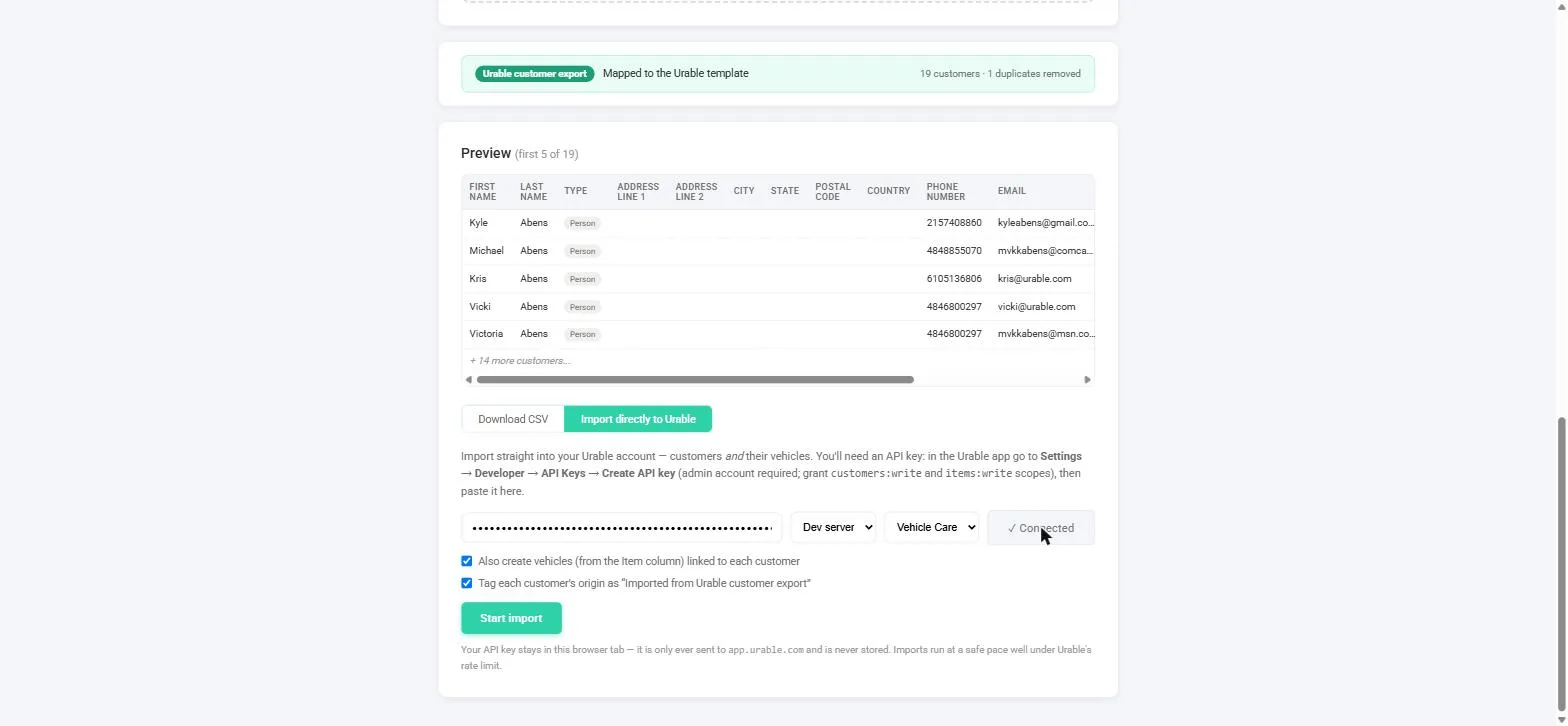
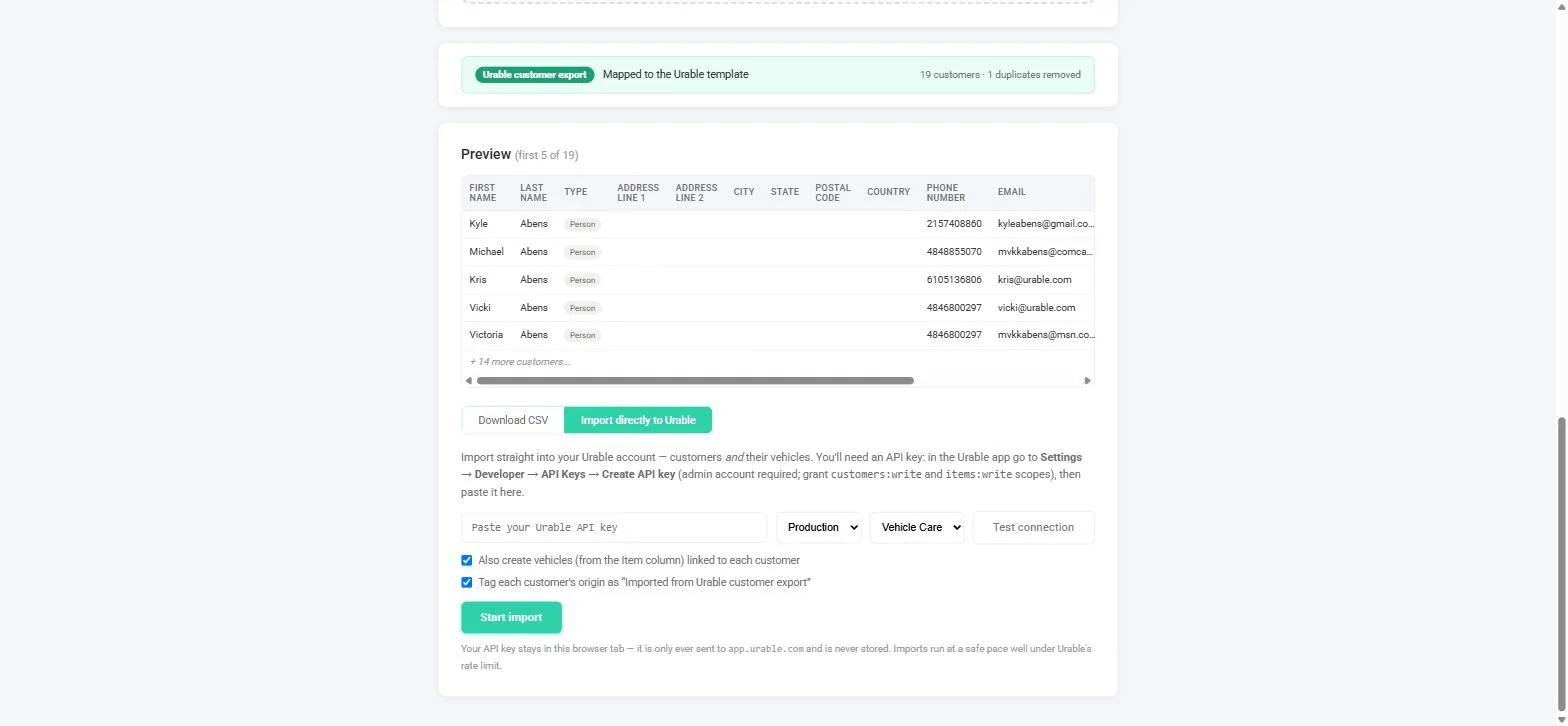
Walkthrough copy edits; Production shown in Part C frames

diff --git a/walkthrough/index.html b/walkthrough/index.html
@@ -241,13 +241,13 @@ const steps=[
   hs:[50,46.4],
   note:"Everything is processed inside your own browser. Customer files are never uploaded to a server. The one exception is the direct API import, which writes into the shop's Urable account \u2014 which is what you asked it to do."},
  {img:"step-02.webp",part:"A",title:"Check what it detected",
-  body:"Drop the file and the tool names the format it recognised \u2014 here <b>Mobile Tech RX</b>. The right-hand count is what matters: how many customers came through, and how many duplicates it merged. If that number looks wildly wrong, stop and look at the file before going further.",
+  body:"Drop the file and the tool automatically determines the source \u2014 here <b>Mobile Tech RX</b>. The right-hand count is what matters: how many customers came through, and how many duplicates it merged. If that number looks wildly wrong, stop and look at the file before going further.",
   hs:[71.4,33.1]},
  {img:"step-03.webp",part:"A",title:"Read the preview",
-  body:"The first five rows, mapped into the Urable template. Spot-check them: names in the right fields, phone numbers intact, addresses where you expect. Two people on one phone number stay two customers \u2014 households share a home phone, so the tool only merges when the names match too.",
+  body:"The first five rows, mapped into the Urable template. Spot-check them: names in the right fields, phone numbers intact, addresses where you expect. The customer list is de-duplicated automatically.",
   hs:[50,51]},
- {img:"step-04.webp",part:"A",title:"Download the CSV",
-  body:"Click <b>Download Urable-ready CSV</b> and send it to the onboarding specialist, or upload it yourself if CSV import is enabled on the account. This is the normal path and the safest one, because a human sees the file before anything is written.",
+ {img:"step-04.webp",part:"A",title:"Analytics import method",
+  body:"Click <b>Download Urable-ready CSV</b>, then upload it through the standard import in Analytics. This is the normal path and the safest one, because a human sees the file before anything is written.",
   hs:[33,88.4],
   note:"The file comes out at exactly 13 columns with no blank rows \u2014 nothing past the Item column. That's deliberate: the Urable importer rejects files with stray columns hanging off the end."},
  {img:"step-05.webp",part:"B",title:"When the format isn't recognised",
@@ -260,36 +260,35 @@ const steps=[
   body:"Leave <b>Add all unmapped columns to Notes</b> ticked. Anything you didn't map lands in the customer's Notes instead of being thrown away \u2014 lead source, tags, account numbers. Then click <b>Apply mapping</b>.",
   hs:[25.7,82.1],
   note:"Not confident about a mapping? Send the file to Claire instead of guessing. She has a Claude skill that cleans messy lists into the Urable template, and the cleaned file drops straight back into this tool."},
- {img:"step-08.webp",part:"B",title:"Same preview, same download",
-  body:"After Apply you're back on the standard preview and the flow is identical to Part A \u2014 check the rows, then download the CSV or switch to the direct import.",
+ {img:"step-08.webp",part:"B",title:"Review the preview",
+  body:"You're back on the standard preview and the flow is identical to Part A \u2014 check the rows, then download the CSV or switch to the direct import.",
   hs:[50,51]},
- {img:"step-09a.webp",part:"C",title:"Find the API keys",
-  body:"The direct import needs an API key from the <b>customer's</b> Urable account, not yours. In their account go to <b>Settings</b>, scroll to the <b>Developer</b> section, and click <b>+ CREATE API KEY</b>. This needs an admin login.",
+ {img:"step-09a.webp",part:"C",title:"Create the API key",
+  body:"Connect to their account. In their account go to <b>Settings</b>, scroll to the <b>Developer</b> section, and click <b>+ CREATE API KEY</b>.",
   hs:[75.1,64.9],
-  note:"Existing keys are listed here with their scopes. If a shop already has a key you can't read it \u2014 keys are only ever shown once \u2014 so just create a new one."},
+  note:"Don't revoke any keys the customer created themselves \u2014 only ever add a new one."},
  {img:"step-09b.webp",part:"C",title:"Name it",
   body:"Call it <b>Urable Import</b>. The name is only a label, but a clear one means the shop knows what it's for later and can revoke it safely once the migration is done.",
   hs:[49.6,34.8]},
- {img:"step-09c.webp",part:"C",title:"Tick every scope",
-  body:"Select <b>all</b> of the scopes listed. The importer touches customers, items, products, jobs, payments and more, and a key missing even one scope fails partway through the import rather than up front. There's no downside to granting them all on a key you revoke afterwards.",
-  hs:[36.2,55.4],
-  note:"Scroll the whole list \u2014 the scopes continue past the bottom of the panel. All sixteen should be checked before you save."},
- {img:"step-09d.webp",part:"C",title:"Copy it now",
-  body:"The key is shown <b>once</b>. Copy it with the icon on the right and paste it straight into the import tool before you click Done. Once this dialog closes there is no way to see it again.",
+ {img:"step-09c.webp",part:"C",title:"Check off all the boxes",
+  body:"Select <b>every</b> scope in the list, then click the green check mark to save.",
+  hs:[36.2,55.4]},
+ {img:"step-09d.webp",part:"C",title:"Copy it, then paste it in",
+  body:"Copy the key, click <b>Done</b>, and paste it into the import tool. There is no way to see it again once you exit this dialog.",
   hs:[62.6,53.2],
-  note:"Lost it? No problem \u2014 you can't recover a key, but you can create another one in seconds. Revoke the old one so it doesn't linger."},
+  note:"Lost it? You can't recover a key, but you can create another in seconds."},
   {img:"step-09.webp",part:"C",title:"Paste it into the tool",
-  body:"Back in the import tool, switch to the <b>Import directly to Urable</b> tab and paste the key. Set the server to match the account the key came from \u2014 <b>Production</b> for a live shop. Then set the industry to match.",
+  body:"Back in the import tool, switch to the <b>Import directly to Urable</b> tab and paste the key. Make sure the server says <b>Production</b> \u2014 it's the default, so it should already be set. Then pick the industry that matches the shop.",
   hs:[37.3,66.9],
-  note:"The key is used for that import only and is never stored. It stays in the browser tab. The screenshots in this part were captured against a dev account, so they show Dev server."},
+  note:"The key is used for that import only and is never stored. It stays in the browser tab."},
    {img:"step-c1.webp",part:"C",title:"Test the connection first",
-  body:"Click <b>Test connection</b> before anything else. <b>\u2713 Connected</b> means the key and the server match and the import can write. Anything else, stop here \u2014 a bad key wastes the whole run.",
+  body:"Check <b>Production</b> is selected, then click <b>Test connection</b>. You want <b>\u2713 Connected</b> before going any further \u2014 anything else and you stop here, because a bad key wastes the whole run.",
   hs:[66.3,72.7],
-  note:"The result only shows on the button for a few seconds. If you miss it, click again. \"Error 400\" means the key is wrong \u2014 the API reports a bad token as 400, not 401."},
+  note:"The result only shows on the button for a few seconds. If you miss it, click again. \"Error 400\" means the key is wrong."},
  {img:"step-c2.webp",part:"C",title:"Start it and read the result",
-  body:"Tick your options, then <b>Start import</b> and confirm the count when the browser asks. When it finishes you get a plain summary \u2014 here <b>19 customers created, 20 vehicles added</b>. Open the Urable account and spot-check a few before telling the shop it's done.",
+  body:"Check both boxes below the API key field, then <b>Start import</b> and confirm the count when the browser asks. When it finishes you get a plain summary \u2014 here <b>19 customers created, 20 vehicles added</b>. Open the Urable account and spot-check a few before telling the shop it's done.",
   hs:[49.6,84.2],
-  note:"Heads up: the customers import creates every row it is given \u2014 it does not match against people already in the account. Run it once. If you need a second pass, check what is already there first."},
+  note:"The de-duplication happens only within the file you're importing \u2014 it does not check against customers already in their Urable account."},
  {img:"step-11.webp",part:"D",title:"Products & services",
   body:"Same flow in the second box. Tiered menus come through grouped \u2014 a service priced for Coupe / Sedan / SUV becomes one service with three price points, not three services.",
   hs:[71.9,33.1]},
